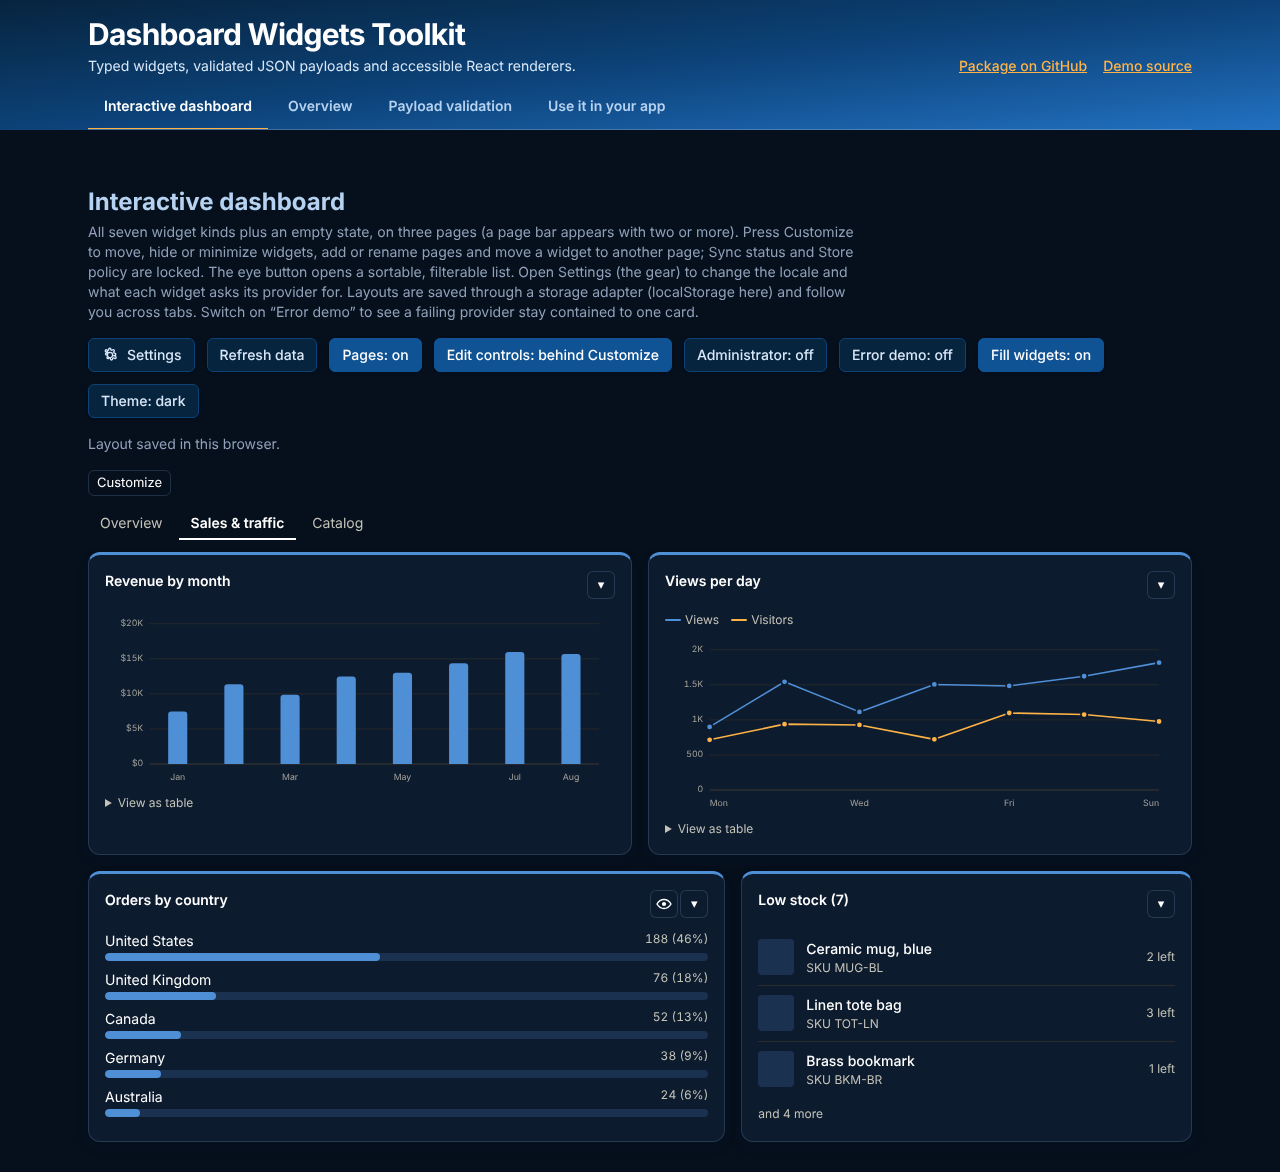
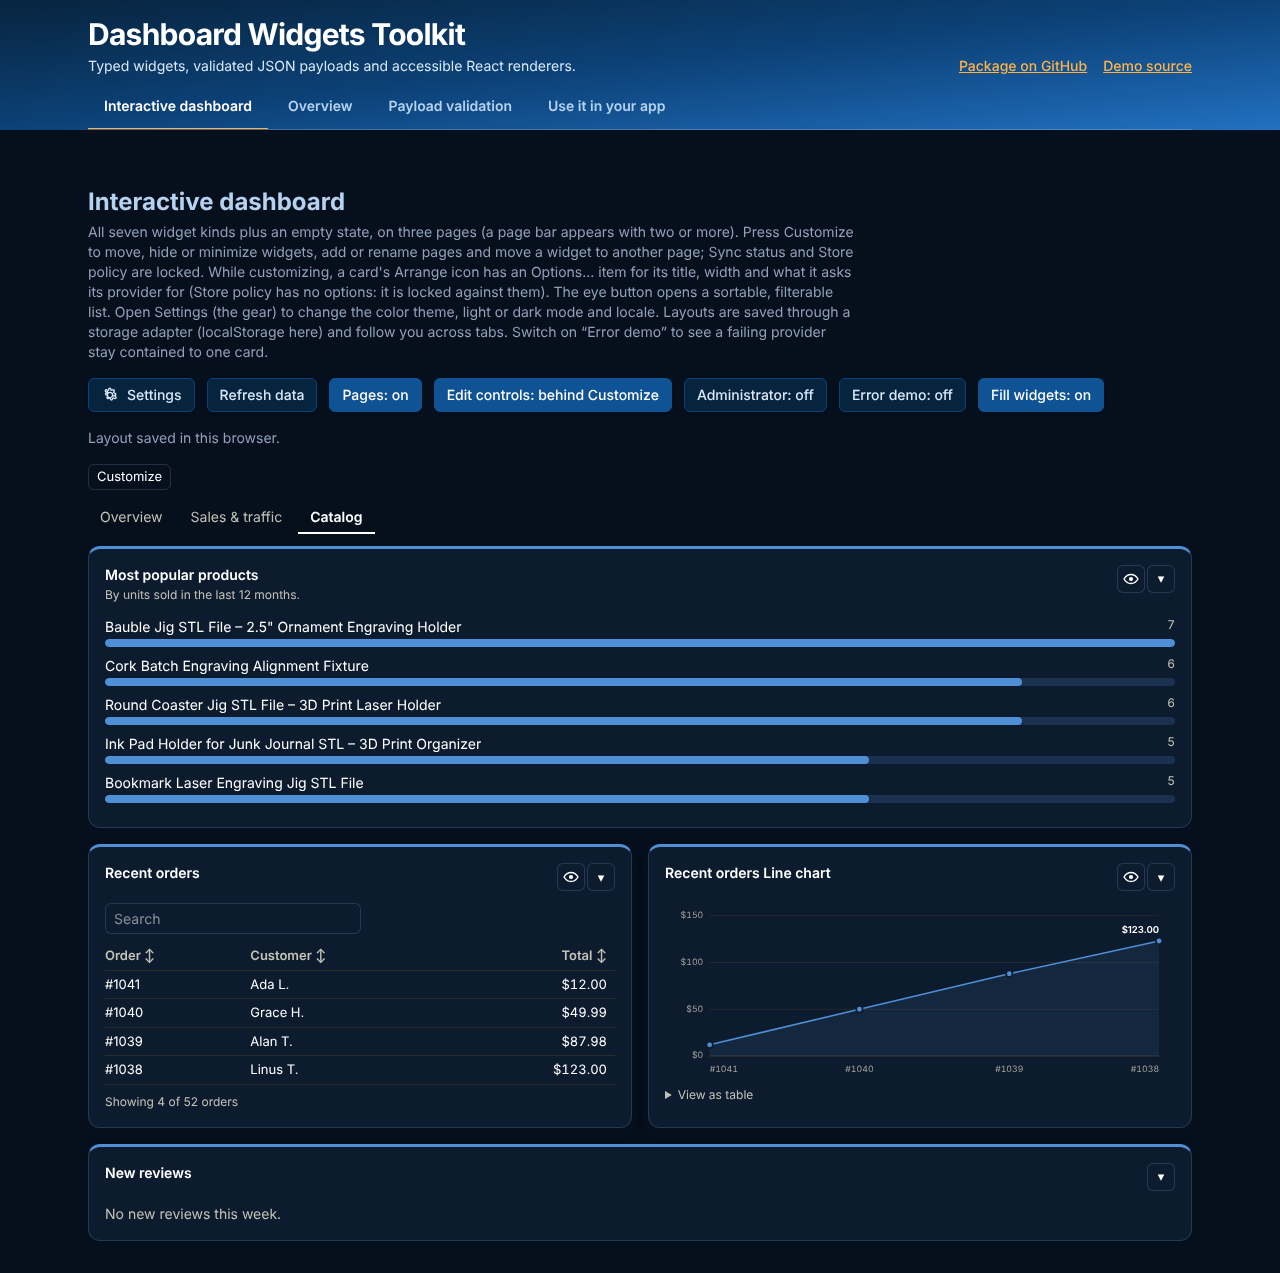
Refresh README screenshots to show views and clones
Claude-Session: https://claude.ai/code/session_01WAf1bZysanrgemsVEHm1N9

diff --git a/README.md b/README.md
@@ -15,7 +15,7 @@ Single Page Application (SPA) demo page demonstrating the features of the dashbo
       <source media="(prefers-color-scheme: dark)" srcset="./docs/screenshot-dark.png" />
       <img
         src="./docs/screenshot-light.png"
-        alt="The demo's interactive dashboard on its Sales & traffic page: a blue header with tabs, controls for pages, edit mode, locks and errors, a Settings button, a Customize button and page bar, then two charts and an orders-by-country bar list on a 12-column grid."
+        alt="The demo's interactive dashboard on its Catalog page: a blue header with tabs, controls for settings, pages, edit mode, locks and errors, a Customize button and page bar, then Most popular products shown as bars, Recent orders as a table beside a clone of it shown as a line chart, and an empty New reviews card on a 12-column grid."
         width="900"
       />
     </picture>

diff --git a/CHANGELOG.md b/CHANGELOG.md
@@ -8,6 +8,12 @@
   dark **Mode** is now a choice in Settings, above the Color theme picker (every
   color theme has a light and a dark version).
 
+### Changed (README)
+
+- README screenshots (light and dark) refreshed: they now show the Catalog page
+  with Most popular products as bars and Recent orders beside a clone of itself
+  as a line chart, and the current header and toolbar (no Theme button).
+
 ### Added (toolkit 0.15.0 and 0.16.0)
 
 - Now uses `@richardmcquiston01/dashboard-widgets-toolkit` `^0.16.0`.
